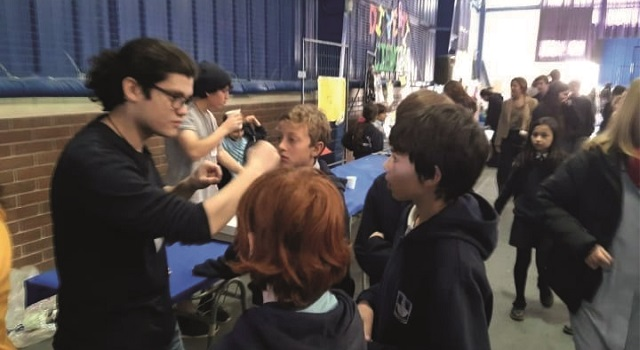
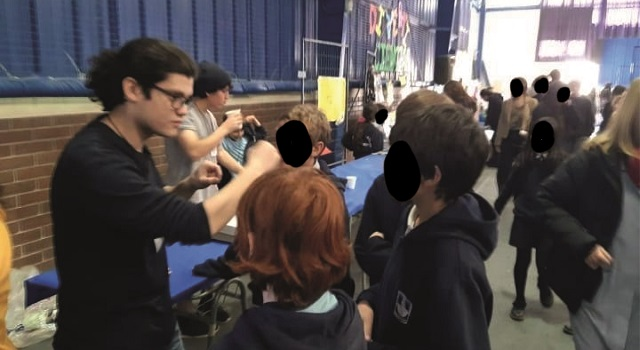
Now proper added the activity

diff --git a/_includes/mosaic-outreach.html b/_includes/mosaic-outreach.html
@@ -235,7 +235,7 @@
             </div>
             <div class="col-lg-4 col-sm-6">
                 <a class="outreach-box">
-                    <img src="img/outreach/background.jpg" class="img-responsive" alt="">
+                    <img src="img/outreach/feria_antukuyen.jpg" class="img-responsive" alt="">
                     <div class="outreach-box-caption">
                         <div class="outreach-box-caption-content">
                             <div class="project-category text-faded">

diff --git a/_includes/outreach-note.html b/_includes/outreach-note.html
@@ -1,7 +1,7 @@
 <aside class="bg-primary">
     <div class="container text-center">
         <div class="call-to-action">
-            <h2>I do not show children faces for protection reasons. People wearing masks are not blurred.</h2>
+            <h2>I blur or hide children faces for protection reasons. People wearing masks are not modified.</h2>
         </div>
     </div>
 </aside>
